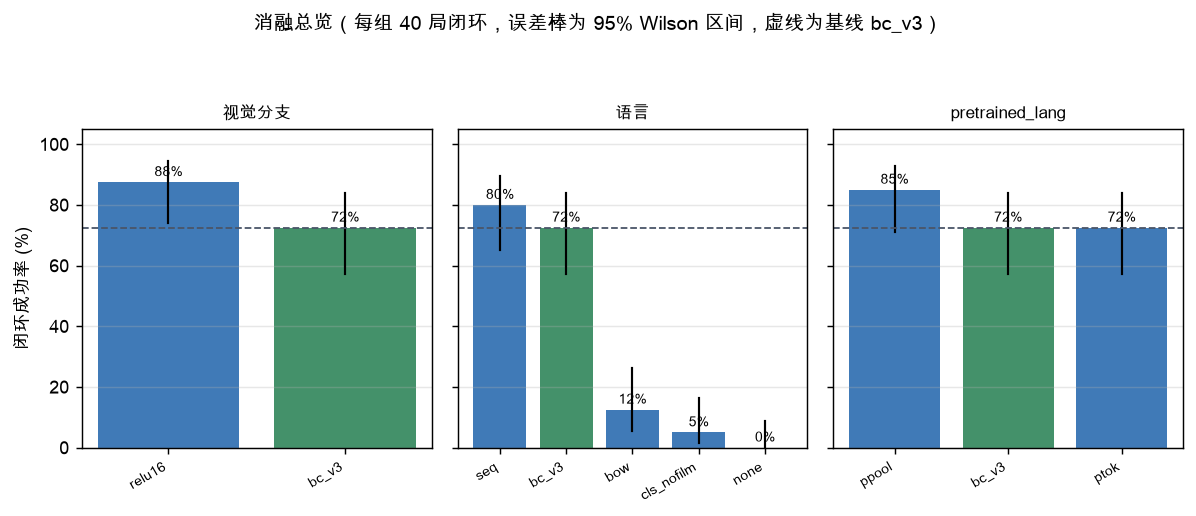
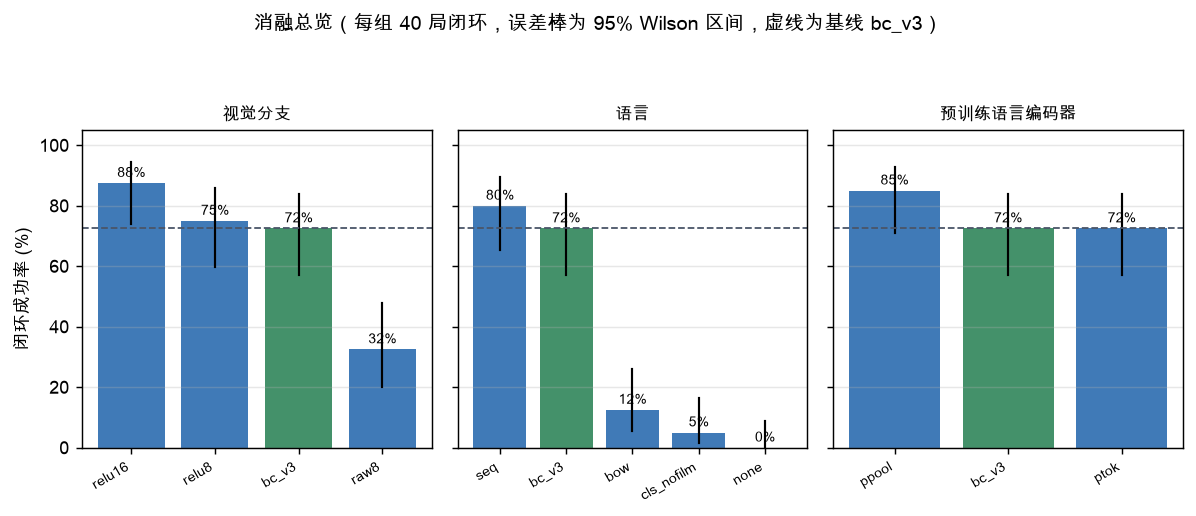
Summary: include pretrained-language and ensembling suites

diff --git a/scripts/summary.py b/scripts/summary.py
@@ -13,6 +13,7 @@ import numpy as np
 SUITE_TITLE = {
     "vision": "视觉分支：空间 softmax 怎么接、特征图多大",
     "lang": "语言：到底有没有起作用",
+    "pretrained_lang": "预训练语言编码器：字符级 vs 冻结句向量 vs 冻结 token 序列",
     "cams": "相机：腕部相机值多少",
     "chunk": "动作分块：预测未来几步",
     "heads": "动作表示：回归 / 离散 token / 扩散",
@@ -127,12 +128,28 @@ def main():
               f"（抓错方块 {c.get('wrong_cube',0)} / 没抓起来 {c.get('no_grasp',0)} / "
               f"没进盘子 {c.get('off_plate',0)}）。", ""]
 
-    for suite in ("vision", "lang", "cams", "chunk", "heads", "backbone", "aux", "data"):
+    for suite in ("vision", "lang", "pretrained_lang", "cams", "chunk", "heads",
+                  "backbone", "aux", "data"):
         rows, done = suite_rows(suite)
         if len(rows) < 2:            # 只有基线一行的套件还没开跑，不占版面
             continue
         L += [f"## {SUITE_TITLE.get(suite, suite)}" + ("" if done else "（进行中）"), "",
               md_table(rows), ""]
+
+    if os.path.exists("runs/ablate_ensemble2.json"):
+        rows = json.load(open("runs/ablate_ensemble2.json"))
+        if os.path.exists("runs/ablate_ensemble.json"):
+            rows += json.load(open("runs/ablate_ensemble.json"))
+        rows = sorted(rows, key=lambda r: (r["k"], -r["n"]))
+        L += ["## 时间集成（纯推理侧开关，不用重训）", "",
+              "| 集成窗口 k | 局数 | 成功率 | 平均步数 |", "|---|---|---|---|"]
+        seen = set()
+        for r in rows:
+            if (r["k"], r["n"]) in seen:
+                continue
+            seen.add((r["k"], r["n"]))
+            L.append(f"| {r['k']} | {r['n']} | **{r['sr']:.0%}** | {r['steps']:.0f} |")
+        L += ["", "k 越大越差，且平均步数越长。见 `notes/07`。", ""]
 
     gens = sorted(glob.glob("runs/*/generalize.json"))
     if gens:

diff --git a/docs/SUMMARY.md b/docs/SUMMARY.md
@@ -1,15 +1,17 @@
-# StarVLA 实验总结（2026-08-24 06:20）
+# StarVLA 实验总结（2026-08-24 07:23）
 
 ## 基线
 
 `bc_v3`：1.33 M 参数，800 条演示，16000 步训练（约 40 分钟），50 局闭环 **72%**（抓错方块 0 / 没抓起来 5 / 没进盘子 6）。
 
-## 视觉分支：空间 softmax 怎么接、特征图多大（进行中）
+## 视觉分支：空间 softmax 怎么接、特征图多大
 
 | 实验 | 成功率 | 95% 区间 | 抓错方块 | 没抓起来 | 没进盘子 | 在问什么 |
 |---|---|---|---|---|---|---|
 | `vis_relu16` ★ | **88%** | 74%–95% | 0 | 1 | 4 | softmax 前接 GroupNorm+ReLU（第一版写法） |
+| `vis_relu8` | **75%** | 60%–86% | 1 | 2 | 7 | 第一版的完整写法：ReLU + 8×8 |
 | `bc_v3` | **72%** | 57%–84% | 0 | 5 | 6 | 原始 logits + 16×16 特征图（基线） |
+| `vis_raw8` | **32%** | 20%–48% | 6 | 12 | 9 | 原始 logits，但特征图只有 8×8 |
 
 （n=40 局。95% Wilson 区间——差距小于区间宽度的结论不要当真。）
 
@@ -25,6 +27,27 @@
 
 （n=40 局。95% Wilson 区间——差距小于区间宽度的结论不要当真。）
 
+## 预训练语言编码器：字符级 vs 冻结句向量 vs 冻结 token 序列
+
+| 实验 | 成功率 | 95% 区间 | 抓错方块 | 没抓起来 | 没进盘子 | 在问什么 |
+|---|---|---|---|---|---|---|
+| `lang_ppool` ★ | **85%** | 71%–93% | 0 | 0 | 6 | 冻结句向量（bge-small-zh 的 CLS） |
+| `bc_v3` | **72%** | 57%–84% | 0 | 5 | 6 | 字符级 CLS（基线） |
+| `lang_ptok` | **72%** | 57%–84% | 0 | 2 | 9 | 冻结 token 特征 + 可学注意力池化 |
+
+（n=40 局。95% Wilson 区间——差距小于区间宽度的结论不要当真。）
+
+## 时间集成（纯推理侧开关，不用重训）
+
+| 集成窗口 k | 局数 | 成功率 | 平均步数 |
+|---|---|---|---|
+| 1 | 80 | **84%** | 62 |
+| 2 | 40 | **75%** | 64 |
+| 4 | 80 | **75%** | 67 |
+| 8 | 40 | **65%** | 74 |
+
+k 越大越差，且平均步数越长。见 `notes/07`。
+
 ## 泛化边界
 
 `bc_v3`：
@@ -36,7 +59,7 @@
 | corner | 48% | 物体全在工作区四角 |
 | paraphrase | 0% | 换措辞：拿起…放到…里 |
 | terse | 0% | 更短的措辞：红方块到蓝盘子 |
-| swap_role | 67% | 指令里方块/盘子颜色对调 |
+| swap_role | 77% | 指令里方块/盘子颜色对调 |
 | plate3 | 52% | 3 个盘子（训练是 2 个） |
 
 `lang_ppool`：
